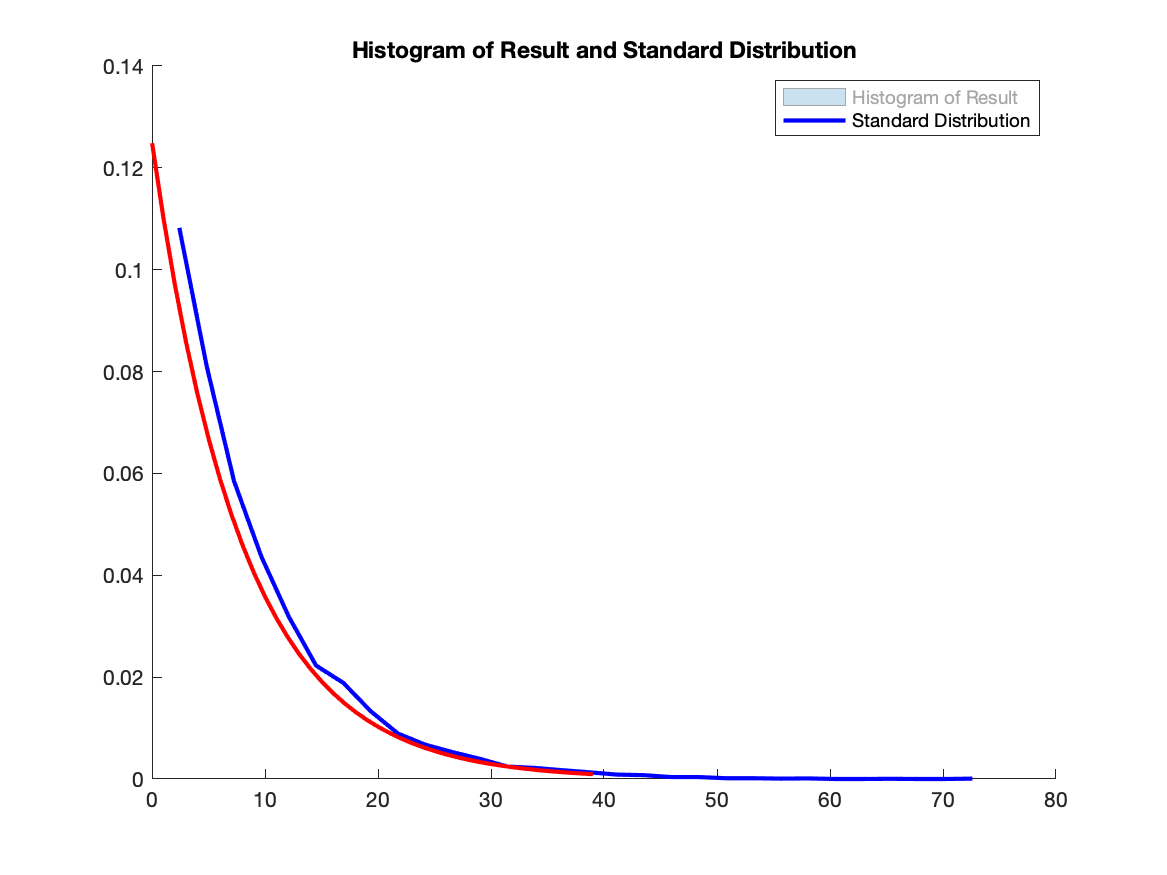
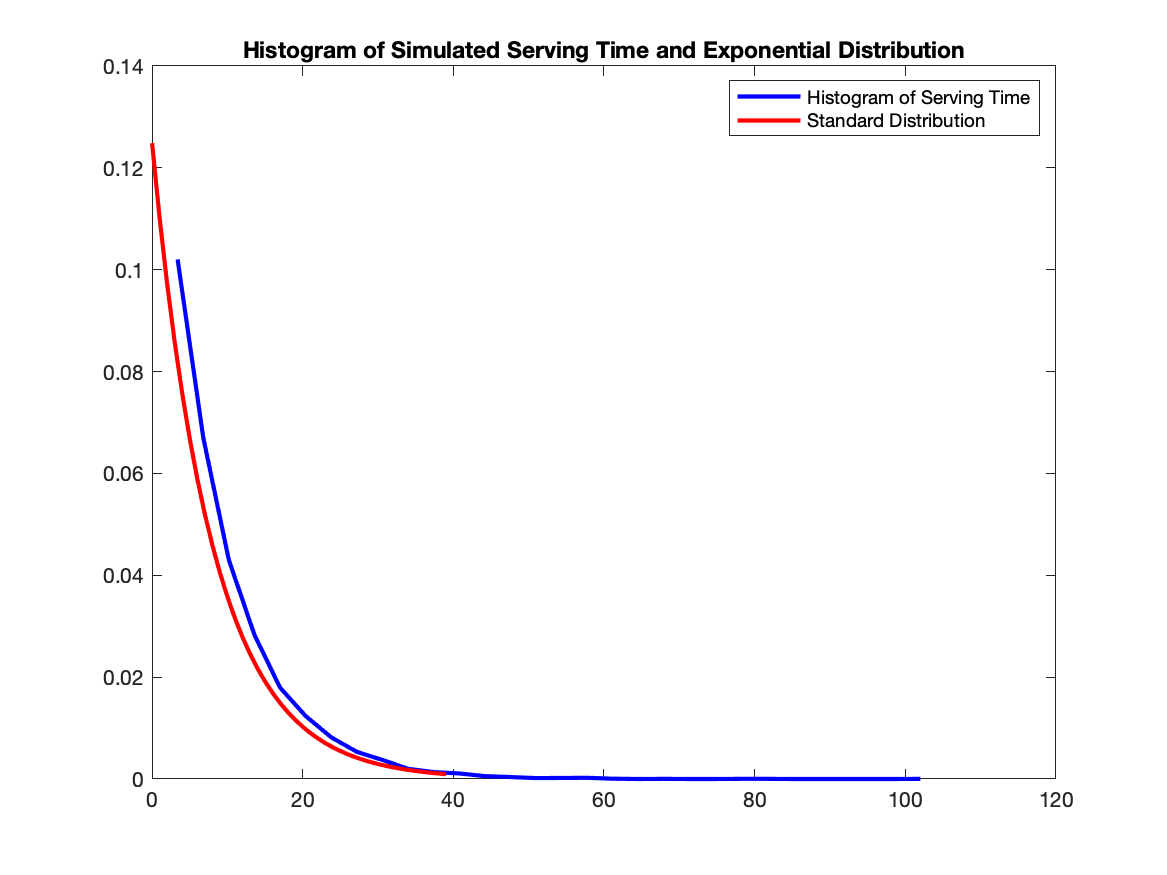
update

diff --git a/exercise4/plotHist.m b/exercise4/plotHist.m
@@ -1,16 +1,16 @@
-function [vecProbClass] = plotHist(vecResult, vecXstd, vecYstd, numClass, strFigName)
+function [vecProbClass] = plotHist(vecResult, vecXstd, vecYstd, numClass, strFigName, strFigTitle, strFigLegend_1)
     % Plot the histogram of RNG result and return the vector of values
     figHist = figure("Visible", "off");
-    hold on
     figHist = histogram(vecResult, 'NumBins', numClass, 'Normalization', 'probability', "Visible", "off");
     vecProbClass = figHist.Values;
     vecProbClassNorm = vecProbClass / figHist.BinWidth;  % Normalize the prob with BinWidth
     vecX = figHist.BinEdges(1:figHist.NumBins);
     vecX = vecX + figHist.BinWidth / 1;
     figHist = plot(vecX, vecProbClassNorm, 'b', 'LineWidth', 2);
+    hold on
     figHist = plot(vecXstd, vecYstd, 'r', 'LineWidth', 2);
-    title("Histogram of Result and Standard Distribution");
-    legend('Histogram of Result', 'Standard Distribution');
     hold off
+    title(strFigTitle);
+    legend(strFigLegend_1, 'Standard Distribution');
     saveas(figHist, [pwd '/images/' strFigName]);
 end

diff --git a/exercise4/setup.m b/exercise4/setup.m
@@ -35,10 +35,12 @@ printResult(vecResultProb);
 % Plot the Histogram of Simulated Time and Standard Distribution
 vecXStd_1 = [0.01:0.01:5];
 vecYStd_1 = exppdf(vecXStd_1, mu);
-[vecProbClass] = plotHist([sState.inteEvent], vecXStd_1, vecYStd_1, 30, '5.png');
+[vecProbClass] = plotHist([sState.inteEvent], vecXStd_1, vecYStd_1, 30, '5.png',
+    "Histogram of Simulated Length of Arrival Interval and Exponential Distribution", 'Histogram of LAI');
 vecXStd_2 = [0.01:1:40];
 vecYStd_2 = exppdf(vecXStd_2, lambda);
-[vecProbClass] = plotHist([sState.timeServe], vecXStd_2, vecYStd_2, 30, '6.png');
+[vecProbClass] = plotHist([sState.timeServe], vecXStd_2, vecYStd_2, 30, '6.png',
+    "Histogram of Simulated Serving Time and Exponential Distribution", 'Histogram of Serving Time');
 fprintf("Result from Simulation and Control Variate -------------------------------------");
 expectY = 1;
 vecX = vecResultProb;
